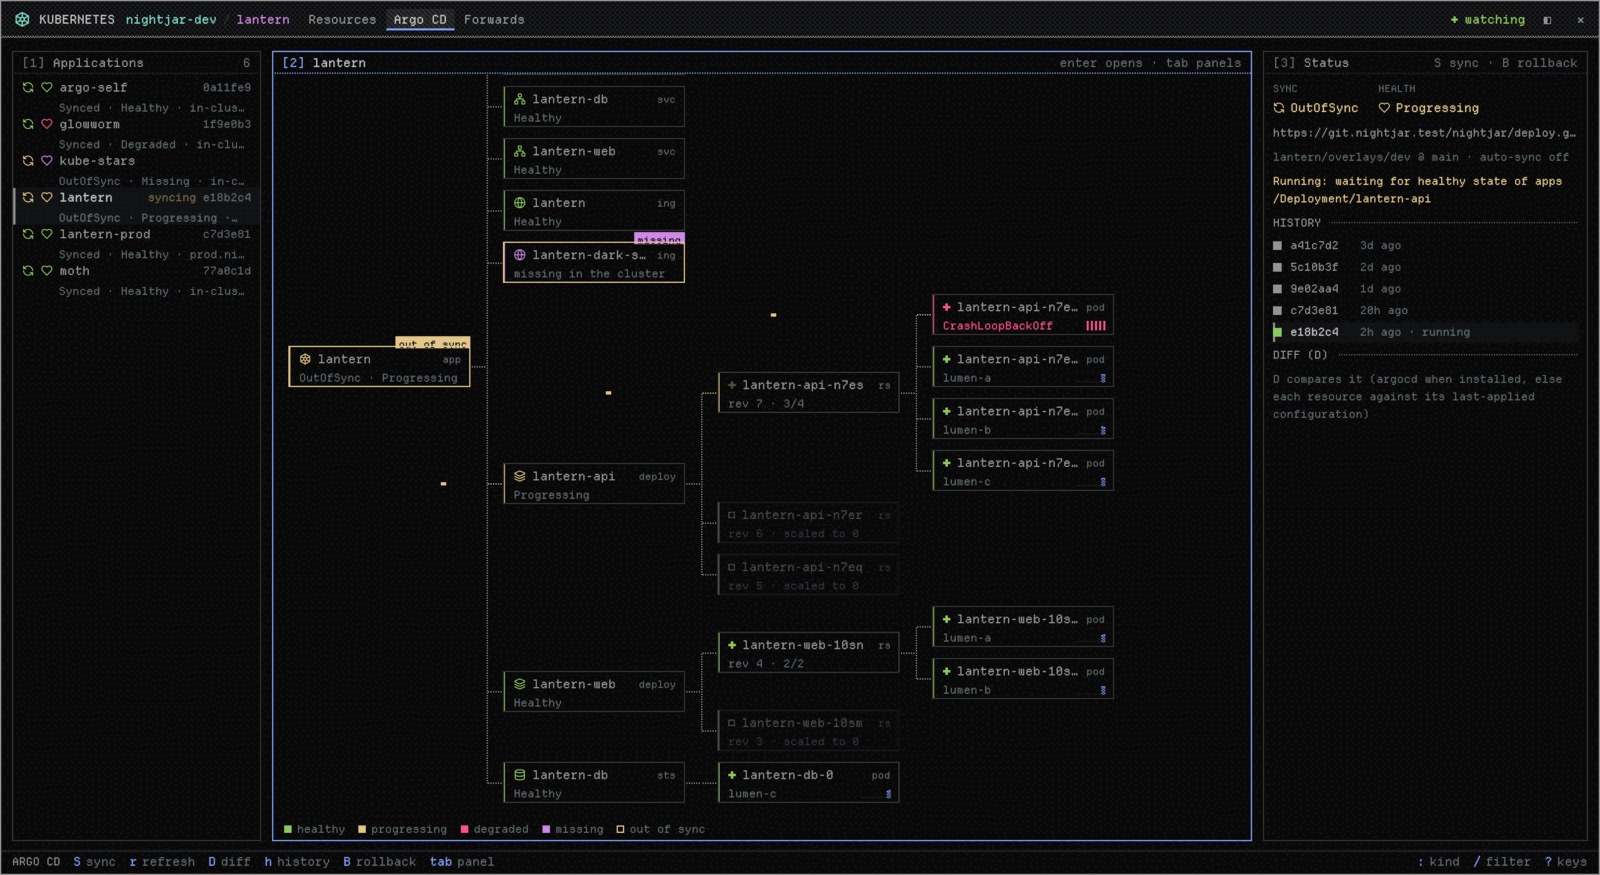
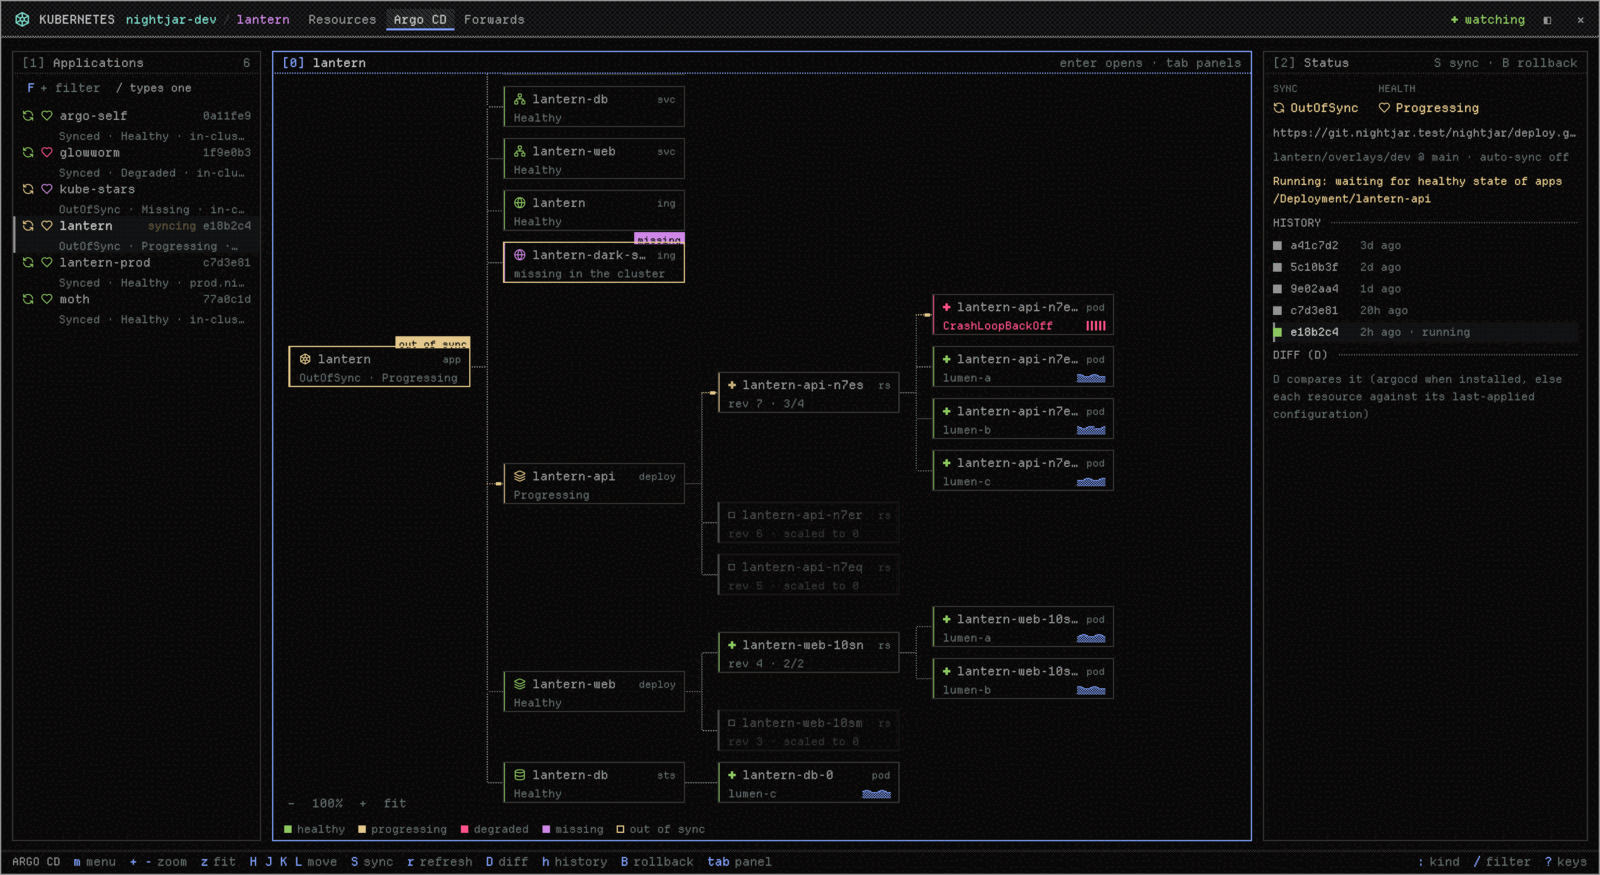
docs: the readme's keys for panels, columns, graphs, argo filters and menus; pictures retaken (the list sorted by memory, the graph, a box's menu, argo's filters); shots: the startup wait without do status, faster top numbers

diff --git a/README.md b/README.md
@@ -225,6 +225,8 @@ a double click on the empty graph), `O` turns the workload graph (top to
 bottom / left to right, kept), `enter` opens the box's object. Over a graph
 `+` `-` zoom; the panel's size there: drag its gap.
 
+![A failing pod's menu on the workload graph](docs/shots/13-graph-menu.png)
+
 Argo CD: `S` sync, `r` refresh (`R` hard), `D` diff, `h` history, `B` roll
 back to the picked revision, `o` the repository, `m` (or a right click on
 an application) its menu.
@@ -235,6 +237,8 @@ words; `tab` completes from what the applications have), `F` (or the
 "+ filter" chip) picks from a menu of what they have with counts. The terms
 show as chips over the list, a click takes one off; the list's title counts
 shown / all; `esc` clears it. It's kept for the next opening.
+
+![The applications filtered by a label, and the menu of what they have](docs/shots/14-argo-filters.png)
 
 ## Development
 
